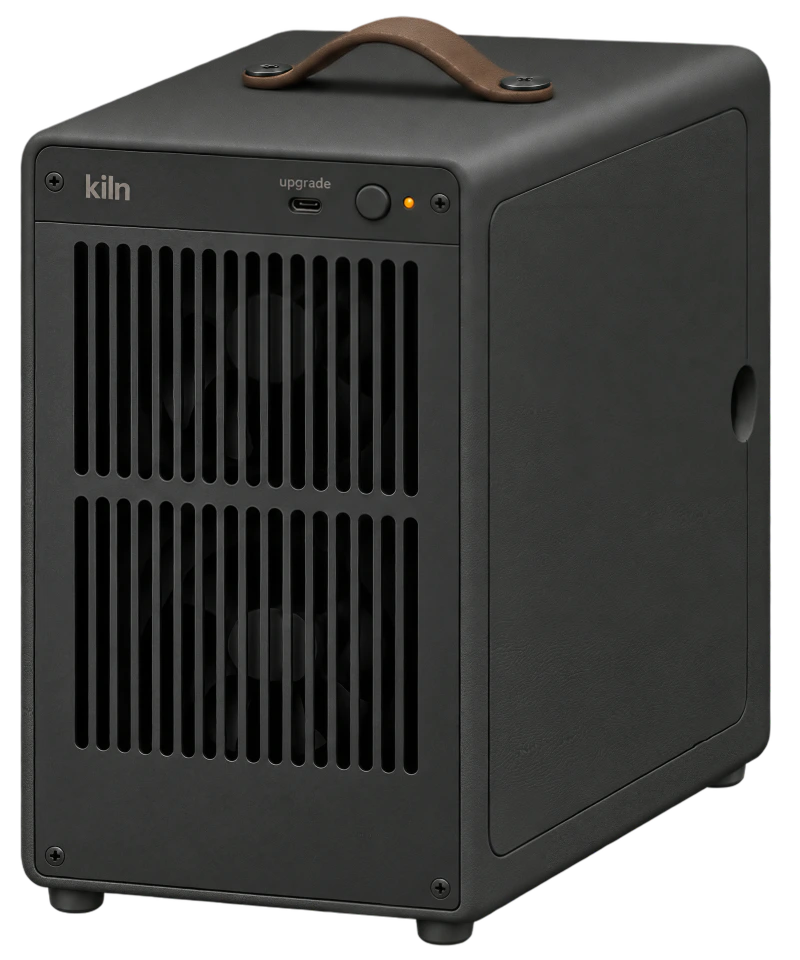
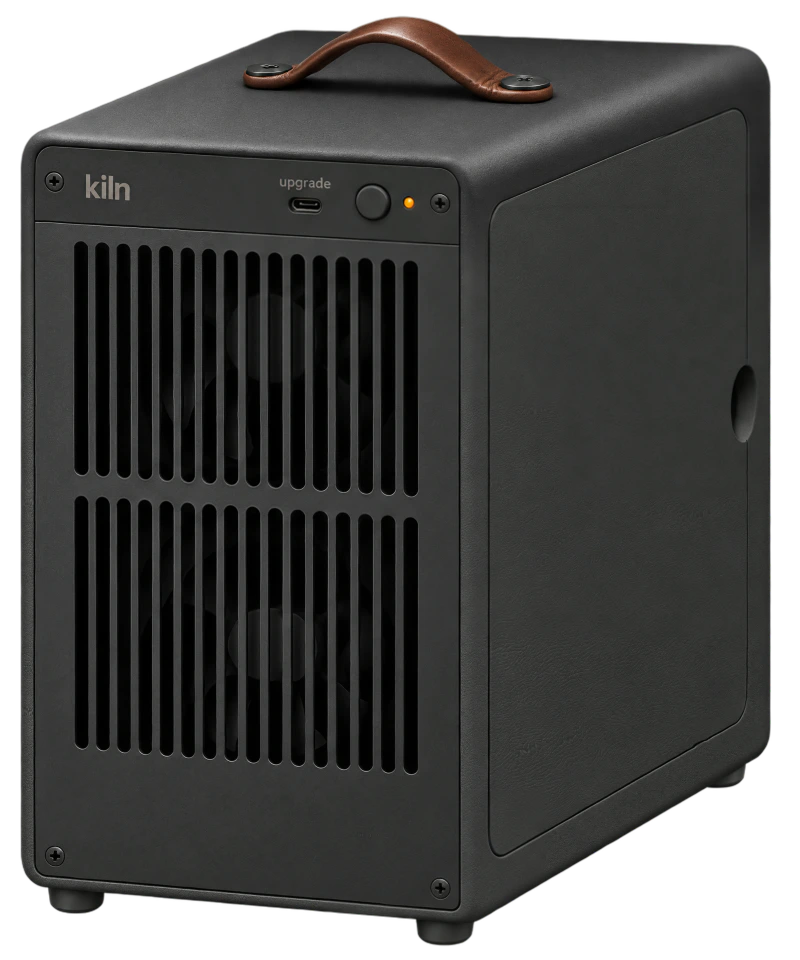
feat: give Kiln One a dashboard finish and supple leather handle

diff --git a/docs/CONTENT-SOURCES.md b/docs/CONTENT-SOURCES.md
@@ -16,7 +16,7 @@ The founder selected the first all-dark charcoal render as the opening Kiln One.
 
[1 lines of base64/hex data omitted]
 
-At 9×, the earlier five-view charcoal close-up showed changes in grain size across the rounded shoulder and along the brown handle. The revised charcoal master uses one continuous moulded-polymer texture across the upper casing and one leather texture along the strap. Both follow the approved shape and lighting. The screw heads and recessed panels retain their detail. The charcoal gallery and catalogue images come from this same master. [Material sources and archive register](https://github.com/porto-labs-xyz/kiln-industrial-design/pull/2)
+Richard specified a firm, rubberised charcoal casing like a car dashboard and a soft brown leather carry strap. A single image-generated view supplies the upper surface of the charcoal master. Grazing light catches the raised grain across the moulded shoulder. The handle has a smooth leather face, a gently burnished edge and compression creases where it meets the fasteners. The charcoal gallery and catalogue images use the same full-device master. [Material sources and archive register](https://github.com/porto-labs-xyz/kiln-industrial-design/pull/2)
 
 The masters keep the complete machine within the same 810 × 972 crop starting at (338, 65) in the original 1448 × 1086 composition. The homepage preloads the 6400 × 7680 deep-charcoal master and uses it from the first 9× close-up through the settled view on every screen. The finish gallery selects among 800, 1600, 3200 and 6400 pixel widths for the projected size and display density. Its wide shot and 4× lens show the same finish. The catalogue and product photographs use 960 × 720 and 3840 × 2880 versions with the original white space.
 
